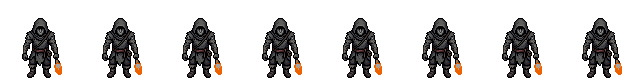
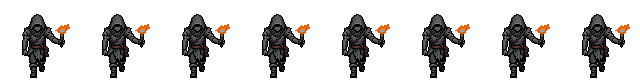
v5.8: mesale yururken hep ustte; kemerdeyken hale yok
Olculdu: mesale surekli inip cikmiyordu, yuruyus dongusunun ilk 2-3
karesinde belden omuza KALDIRILIYORDU (alev y 65 -> 63 -> 43 -> 28), sonra
ustte kaliyordu. Dongu her turda o kaldirmayi gosterince "bir yukari bir
asagi" gorunuyordu. v3_kur alcak_onu_at: alev en yuksek seviyeden 8 px'den
alcaksa o bas kareler atilir. Iki set yeniden kuruldu; yuruyuste alev y
sapmasi artik <=7 px. Uretim yok.

Sicak turuncu hale yalnizca mesale ELDEYKEN ciziliyor: yay/balta ile
kemere alininca karakterin ustunde turuncu leke kaliyordu. Kemerde isik
katmani yaricapi 0.5 -> 0.35.

diff --git a/lib/game/engine.ts b/lib/game/engine.ts
@@ -322,7 +322,7 @@ if(!walkable(this.world,s.x,s.y)){[s.x,s.y]=this.world.spawn;}this.camera={x:s.x
    const s=this.state;const tit=(x:number)=>1+Math.sin(time*9+x)*.04+Math.sin(time*23+x*.7)*.02;
    // Oyuncu: mesaleyle genis, mesalesiz yalnizca cevresi (iki adim).
    /* Merkez ayak degil govde ortasi: sprite y'nin ustune ciziliyor, y-6'da isik karakterin altinda kaliyordu. */
-   del(s.x,s.y-16,(this.mesale>0?Engine.ISIK.mesale*(this.mesaleElde()?1:.5)*(this.mesale<6?.5+this.mesale/12:1):Engine.ISIK.cip)*tit(s.x));
+   del(s.x,s.y-16,(this.mesale>0?Engine.ISIK.mesale*(this.mesaleElde()?1:.35)*(this.mesale<6?.5+this.mesale/12:1):Engine.ISIK.cip)*tit(s.x));
    for(const e of this.world.entities)if(e.type==='fire'||e.type==='core')del(e.x,e.y-6,Engine.ISIK.ates*tit(e.x));
    for(const [x,y,r] of this.world.isiklar)del(x,y,r*tit(x));
    for(const m of this.mobs){if(m.hp<=0)continue;if(m.kind===9)del(m.x,m.y-14,Engine.ISIK.fener*tit(m.x));else if(m.burn>0)del(m.x,m.y-8,Engine.ISIK.yanan);}
@@ -893,7 +893,7 @@ if(!walkable(this.world,s.x,s.y)){[s.x,s.y]=this.world.spawn;}this.camera={x:s.x
      mesalesi de ayni sicakligi versin, yoksa isik haritasi deligi soguk gri kaliyor. */
   {const sicak=(x:number,y:number,r:number)=>{const g=c.createRadialGradient(x,y,0,x,y,r);g.addColorStop(0,'#f7af3930');g.addColorStop(.4,'#ee8e1812');g.addColorStop(1,'#ee8e1800');c.fillStyle=g;c.fillRect(x-r,y-r,r*2,r*2);};
    for(const [x,y,r] of this.world.isiklar)sicak(x,y,r*.9+Math.sin(time*3+x)*3);
-   if(this.mesale>0)sicak(this.state.x,this.state.y-16,(this.mesaleElde()?70:36)+Math.sin(time*4)*3);}
+   /* Sicak hale yalnizca mesale ELDEYKEN: kemerdeyken (yay/balta) karakterin ustunde turuncu leke kaliyordu. */if(this.mesaleElde())sicak(this.state.x,this.state.y-16,70+Math.sin(time*4)*3);}
   for(const e of this.world.entities.filter(e=>e.type==='fire'||e.type==='core')){if(Math.abs(e.x-this.state.x)>230||Math.abs(e.y-this.state.y)>160)continue;const radius=48+Math.sin(time*3+e.x)*3;const glow=c.createRadialGradient(e.x,e.y-6,0,e.x,e.y-6,radius);glow.addColorStop(0,'#f7af3936');glow.addColorStop(.35,'#ee8e1815');glow.addColorStop(1,'#ee8e1800');c.fillStyle=glow;c.fillRect(e.x-radius,e.y-radius-6,radius*2,radius*2);}
   for(const d of this.drops){c.save();c.translate(d.x,d.y);if(d.kind==='wood'){c.fillStyle='#b87c4c';c.fillRect(-3,-2,6,4);c.fillStyle='#6e4729';c.fillRect(-2,-1,4,2);}else if(d.kind==='xp'){const p=2.5+Math.sin(time*10)*.8;c.fillStyle='#8ee675';c.beginPath();c.arc(0,0,p,0,Math.PI*2);c.fill();c.fillStyle='#fff';c.beginPath();c.arc(0,0,p*.5,0,Math.PI*2);c.fill();}else if(d.kind==='gold'){c.fillStyle='#ffd700';c.beginPath();c.arc(0,0,2.5,0,Math.PI*2);c.fill();c.fillStyle='#b89200';c.fillRect(-.8,-.8,1.6,1.6);}else if(d.kind==='bow'){c.strokeStyle='#c78d4c';c.lineWidth=1.5;c.beginPath();c.arc(0,0,5,-Math.PI/2,Math.PI/2);c.stroke();c.strokeStyle='#dedede';c.lineWidth=0.8;c.beginPath();c.moveTo(0,-5);c.lineTo(0,5);c.stroke();}c.restore();}
   for(const s of this.shots){if(s.isHero){c.save();/* Ok ayaklardan cikiyor gibi duruyordu. shot.y'yi yukseltmek YANLIS olurdu:

diff --git a/lib/game/data.ts b/lib/game/data.ts
@@ -1,6 +1,6 @@
 /** Oyun surumu. Her yayina cikan degisiklikte 0.1 artar: 0.1, 0.2 ... 0.9,
  *  sonra 1.0, 1.1 diye devam eder. Ekranin sol altinda gorunur. */
-export const SURUM='5.7';
+export const SURUM='5.8';
 /** Gelisim asamasi. Oyun oynanabilir ama icerik ve sistemler (item seti, dil
  *  secenegi, masaustu arayuzu) hala eksik - yani alfa. Beta'ya gecisi bu sabit
  *  tasir; surum numarasiyla ayri tutuldu ki 1.x sayimi bozulmasin. */

diff --git a/scripts/v3_kur.py b/scripts/v3_kur.py
@@ -168,6 +168,35 @@ def alev_px(k):
     return n
 
 
+def alev_y(k):
+    """Alev piksellerinin ortalama y'si (None = alev yok)."""
+    px = k.load(); ys = []
+    for y in range(k.height):
+        for x in range(k.width):
+            r, g, b, a = px[x, y]
+            if a and r > 190 and g > 90 and b < 140 and r - b > 70:
+                ys.append(y)
+    return sum(ys) / len(ys) if ys else None
+
+
+# Yuruyus dongusunun basinda model mesaleyi belden omuza KALDIRIYOR (alev y
+# 65 -> 63 -> 43 -> 28), sonra ustte tutuyor. Dongu her turda o kaldirmayi
+# gosterince mesale "bir yukari bir asagi" gidiyordu. Alev en yuksek
+# seviyeden ALEV_INIS px'den fazla asagidaysa o bas kareler atilir.
+ALEV_INIS = 8
+
+
+def alcak_onu_at(kareler):
+    ys = [alev_y(k) for k in kareler]
+    if not any(y is not None for y in ys):
+        return kareler, 0
+    tepe = min(y for y in ys if y is not None)
+    i = 0
+    while len(kareler) - i > EN_AZ_KARE and (ys[i] is None or ys[i] > tepe + ALEV_INIS):
+        i += 1
+    return kareler[i:], i
+
+
 def alevsiz_onu_at(kareler):
     al = [alev_px(k) for k in kareler]
     i, j = 0, len(al)
@@ -324,6 +353,7 @@ def kur(setad):
                     kk = yaysiz_onu_at(kk)[0]
                 if (setad, 'Walk') in ALEV_AT:
                     kk = alevsiz_onu_at(kk)[0]
+                    kk = alcak_onu_at(kk)[0]
                 durus_k = kk[0]
             else:
                 durus_k = donusler().get(yon)
@@ -339,6 +369,8 @@ def kur(setad):
                 kareler, atilan = yaysiz_onu_at(kareler)
             if (setad, aksiyon) in ALEV_AT:
                 kareler, atilan = alevsiz_onu_at(kareler)
+                if aksiyon == 'Walk':
+                    kareler, a2 = alcak_onu_at(kareler); atilan += a2
             if (setad, aksiyon) in ATIS_BASA:
                 kareler = atisi_basa_al(kareler)
             sh = Image.new('RGBA', (en * len(kareler), boyut(en)[0]), (0, 0, 0, 0))

diff --git a/.claude/skills/kul-ve-yemin-esaslar/SKILL.md b/.claude/skills/kul-ve-yemin-esaslar/SKILL.md
@@ -198,6 +198,10 @@ dönüş karesinden geldiği için meşalesiz: `v3_kur` ALEV_AT alev pikseline
 göre kırpar; ton uyumu alevi de küle çevirdiği için `alev_geri` ham
 alev piksellerini geri koyar. Yan/arka saldırıda model meşaleyi yere
 yayılan aleve çevirdi → "SMALL fist-sized flame, NO fire on the ground".
+Yürüyüş döngüsünün başında model meşaleyi belden omuza kaldırıyor (alev y
+65→28); döngü her turda onu gösterince "bir aşağı bir yukarı" oluyordu →
+`alcak_onu_at`: alev tepeden 8 px'den alçak olan baş kareler atılır. Sıcak
+hale yalnız meşale eldeyken; kemerdeyken ışık ×0.35, hale yok.
 
 **Arayüz:** parşömen. Çerçeveler CSS değil 9 dilim piksel resmi
 (`frame*.png`, dilim 8, kalınlık dilimin katı). `border-image … fill`
@@ -259,4 +263,4 @@ kondu. Uzaklıkla kısılır.
 
 ---
 
-*Son güncelleme: 2026-09-12, v5.7. Karıştırıyorsa kısalt ya da sil; kullanıcı böyle istedi.*
+*Son güncelleme: 2026-09-12, v5.8. Karıştırıyorsa kısalt ya da sil; kullanıcı böyle istedi.*
